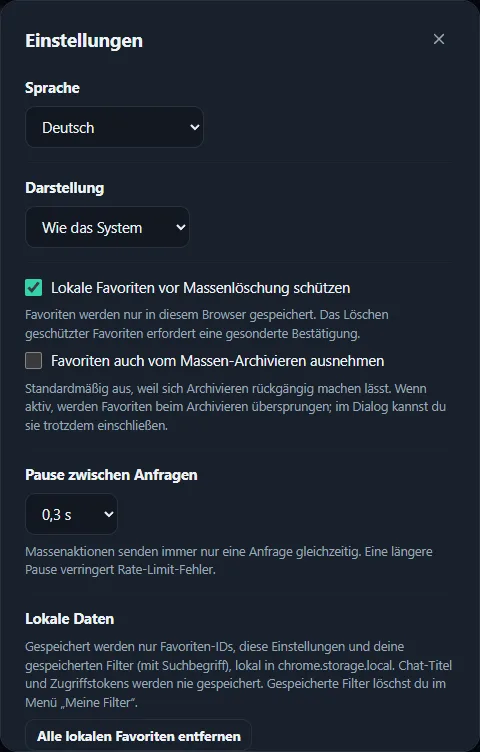
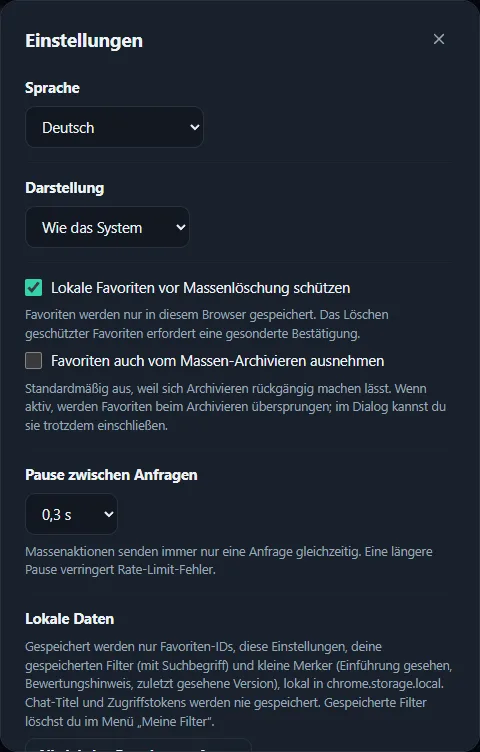
Chat Manager 2.4.0: handbook 2.4 (what's new, undo), privacy policy newsSeen

Changed region(s): [[0.0625, 0.8564, 0.9375, 1.0]]

diff --git a/chat-manager/help.html b/chat-manager/help.html
@@ -20,7 +20,7 @@
   <!-- ============================== DEUTSCH ============================== -->
   <article id="de" lang="de" class="doc-section">
     <h1>Handbuch</h1>
-    <p class="doc-meta">Chat Manager for ChatGPT · Version 2.2 · unabhängiges Projekt, kein Produkt von OpenAI</p>
+    <p class="doc-meta">Chat Manager for ChatGPT · Version 2.4 · unabhängiges Projekt, kein Produkt von OpenAI</p>
 
     <nav class="toc" aria-label="Inhalt">
       <ol>
@@ -35,6 +35,7 @@
         <li><a href="#de-errors">Meldungen und Lösungen</a></li>
         <li><a href="#de-faq">Häufige Fragen</a></li>
         <li><a href="#de-privacy">Datenschutz und Kontakt</a></li>
+        <li><a href="#de-news">Neuigkeiten</a></li>
       </ol>
     </nav>
 
@@ -110,6 +111,7 @@
       <li><strong>Nach aktueller Anfrage stoppen</strong> hält die Aktion vor dem nächsten Chat an. Bereits bearbeitete Chats bleiben bearbeitet.</li>
       <li>Bei vorübergehenden Fehlern (zu viele Anfragen, Serverfehler, Zeitüberschreitung) versucht die Erweiterung jeden Chat bis zu dreimal, mit wachsender Wartezeit. Lehnt ChatGPT danach immer noch ab (HTTP 429), <strong>stoppt die Aktion</strong>, statt weitere Chats anzufragen.</li>
       <li>Am Ende siehst du, wie viele Chats erfolgreich waren und welche fehlgeschlagen sind. <strong>Fehlgeschlagene erneut versuchen</strong> (nach einem Stopp wegen HTTP 429: <strong>Erneut versuchen</strong>) wiederholt nur die nicht erledigten Chats, erfolgreiche nie.</li>
+      <li><strong>Rückgängig machen</strong> erscheint nach Archivieren, Wiederherstellen und Verschieben im Ergebnis. Es kehrt die Aktion für genau die Chats um, bei denen sie geklappt hat – auch wenn sie in der aktuellen Ansicht nicht mehr zu sehen sind. Verschobene Chats kommen jeweils in ihr vorheriges Projekt zurück. Chats, die du inzwischen selbst geändert hast, werden übersprungen. Löschen lässt sich nicht rückgängig machen. Das Angebot gilt, bis du das Ergebnis schließt oder eine neue Aktion startest.</li>
       <li>Schließt du den Manager während einer Aktion, fragt der Browser vorher nach.</li>
       <li>Die Seitenleiste von ChatGPT zeigt Änderungen oft erst nach einem Neuladen des ChatGPT-Tabs.</li>
     </ul>
@@ -190,12 +192,40 @@
     <h2 id="de-privacy">11. Datenschutz und Kontakt</h2>
     <p>Die Erweiterung verarbeitet Chat-Titel und -Metadaten nur im Browser und nutzt das Zugriffstoken deiner ChatGPT-Sitzung nur im ChatGPT-Tab, ohne es zu speichern. Lokal gespeichert werden Favoriten, Einstellungen und gespeicherte Filter. Einzelheiten stehen in der <a href="privacy.html">Datenschutzerklärung</a>.</p>
     <p>Fragen, Fehler oder Ideen: <a href="mailto:dendev.labs@gmail.com">dendev.labs@gmail.com</a></p>
+
+    <h2 id="de-news">12. Neuigkeiten</h2>
+    <p>Was sich in den letzten Versionen für dich geändert hat. Chrome installiert Updates automatisch; nach einem größeren Update steht unten im Manager neben der Versionsnummer einmal „neu“.</p>
+    <h3 id="de-news-2-4">Version 2.4</h3>
+    <ul>
+      <li><strong>Rückgängig machen</strong> nach Archivieren, Wiederherstellen und Verschieben.</li>
+      <li>Diese Neuigkeiten: Ein Klick auf die Versionsnummer unten im Manager führt hierher.</li>
+      <li>Deutlich flüssiger bei Tausenden Chats, zum Beispiel beim Auswählen und bei „Weitere anzeigen“.</li>
+      <li>Bessere Lesbarkeit und Bedienung: stärkere Kontraste, sichtbarer Fokus auch im Windows-Kontrastmodus, Menüs passen in schmale Fenster.</li>
+    </ul>
+    <h3 id="de-news-2-3">Version 2.3</h3>
+    <ul>
+      <li>Große Chatlisten laden zuverlässiger: Der Manager hört nicht mehr zu früh auf und meldet verständlich, wenn ChatGPT beim Blättern nicht weiterkommt.</li>
+      <li>„Bewerten“ im Footer und in den Einstellungen führt zur Bewertungsseite im Store.</li>
+    </ul>
+    <h3 id="de-news-2-2">Version 2.2</h3>
+    <ul>
+      <li>Hellmodus (Einstellungen → Darstellung) und eine kurze Einführung beim ersten Start.</li>
+      <li>Dieses Handbuch, erreichbar über „?“ oben rechts.</li>
+      <li>„Meine Filter“: Suche, Zeitraum, Projekt und Sortierung unter einem Namen speichern.</li>
+      <li>Bereichsauswahl mit Umschalt+Klick und der Filter „Titel“ für unbenannte Chats.</li>
+      <li>Optionaler Archivierschutz für Favoriten und eine Diagnose für Fehlermeldungen.</li>
+    </ul>
+    <h3 id="de-news-2-1">Version 2.1</h3>
+    <ul>
+      <li>Chats in ChatGPT-Projekten werden erkannt, mit Projektnamen und Filter.</li>
+      <li>Neue Massenaktion „Verschieben“ in ein Projekt oder heraus.</li>
+    </ul>
   </article>
 
   <!-- ============================== ENGLISH ============================== -->
   <article id="en" lang="en" class="doc-section">
     <h1>Handbook</h1>
-    <p class="doc-meta">Chat Manager for ChatGPT · version 2.2 · independent project, not an OpenAI product</p>
+    <p class="doc-meta">Chat Manager for ChatGPT · version 2.4 · independent project, not an OpenAI product</p>
 
     <nav class="toc" aria-label="Contents">
       <ol>
@@ -210,6 +240,7 @@
         <li><a href="#en-errors">Messages and solutions</a></li>
         <li><a href="#en-faq">FAQ</a></li>
         <li><a href="#en-privacy">Privacy and contact</a></li>
+        <li><a href="#en-news">What’s new</a></li>
       </ol>
     </nav>
 
@@ -285,6 +316,7 @@
       <li><strong>Stop after current request</strong> halts the action before the next chat. Chats already processed stay processed.</li>
       <li>On temporary errors (too many requests, server errors, timeouts) each chat is tried up to three times with growing waits. If ChatGPT still refuses (HTTP 429), <strong>the action stops</strong> instead of requesting further chats.</li>
       <li>At the end you see how many chats succeeded and which failed. <strong>Retry failed</strong> (after a stop because of HTTP 429: <strong>Retry</strong>) only repeats chats that were not done, never successful ones.</li>
+      <li><strong>Undo</strong> appears in the result after archiving, restoring and moving. It reverses the action for exactly the chats where it succeeded – even if they are no longer shown in the current view. Moved chats each go back to their previous project. Chats you have changed yourself in the meantime are skipped. Deleting cannot be undone. Undo is available until you close the result or start a new action.</li>
       <li>If you close the manager during an action, the browser asks first.</li>
       <li>ChatGPT’s sidebar often shows changes only after reloading the ChatGPT tab.</li>
     </ul>
@@ -365,6 +397,34 @@
     <h2 id="en-privacy">11. Privacy and contact</h2>
     <p>The extension processes chat titles and metadata only in your browser and uses your ChatGPT session’s access token only in the ChatGPT tab, without storing it. Favorites, settings and saved filters are stored locally. Details are in the <a href="privacy.html">privacy policy</a>.</p>
     <p>Questions, bugs or ideas: <a href="mailto:dendev.labs@gmail.com">dendev.labs@gmail.com</a></p>
+
+    <h2 id="en-news">12. What’s new</h2>
+    <p>What changed for you in recent versions. Chrome installs updates automatically; after a larger update, the manager shows “new” next to the version number at the bottom once.</p>
+    <h3 id="en-news-2-4">Version 2.4</h3>
+    <ul>
+      <li><strong>Undo</strong> after archiving, restoring and moving.</li>
+      <li>This news page: click the version number at the bottom of the manager to get here.</li>
+      <li>Much smoother with thousands of chats, for example when selecting and with “Show more”.</li>
+      <li>Better readability and keyboard use: stronger contrast, visible focus in Windows contrast themes too, menus fit narrow windows.</li>
+    </ul>
+    <h3 id="en-news-2-3">Version 2.3</h3>
+    <ul>
+      <li>Large chat lists load more reliably: the manager no longer stops too early and tells you clearly if ChatGPT stops advancing while paging.</li>
+      <li>“Rate” in the footer and in Settings leads to the review page in the store.</li>
+    </ul>
+    <h3 id="en-news-2-2">Version 2.2</h3>
+    <ul>
+      <li>Light theme (Settings → Appearance) and a short introduction on first start.</li>
+      <li>This handbook, available via “?” at the top right.</li>
+      <li>“My filters”: save search, period, project and sort under a name.</li>
+      <li>Range selection with Shift+click and the “Title” filter for untitled chats.</li>
+      <li>Optional archive protection for favorites and diagnostics for error reports.</li>
+    </ul>
+    <h3 id="en-news-2-1">Version 2.1</h3>
+    <ul>
+      <li>Chats in ChatGPT projects are recognized, with project names and a filter.</li>
+      <li>New bulk action “Move” into or out of a project.</li>
+    </ul>
   </article>
 </main>
 </body>

diff --git a/chat-manager/privacy.html b/chat-manager/privacy.html
@@ -42,7 +42,7 @@
           <tr><td><strong>Projektliste</strong>: ID und Name deiner ChatGPT-Projekte</td><td>Projektnamen anzeigen, nach Projekt filtern, Ziel beim Verschieben wählen</td><td>Arbeitsspeicher der Manager-Seite</td><td>bis der Manager-Tab geschlossen oder neu geladen wird</td></tr>
           <tr><td><strong>Zugriffstoken der ChatGPT-Sitzung</strong></td><td>Anfragen an <code>chatgpt.com</code> im Namen deiner bestehenden Anmeldung</td><td>nur im Arbeitsspeicher des ChatGPT-Tabs</td><td>bis der ChatGPT-Tab geschlossen oder neu geladen wird</td></tr>
           <tr><td><strong>Lokale Favoriten</strong>: Chat-IDs und Zeitpunkt der Markierung</td><td>Favoritenansicht und Löschschutz</td><td><code>chrome.storage.local</code> in diesem Browser</td><td>bis du sie entfernst (einzeln oder über Einstellungen → „Alle lokalen Favoriten entfernen“) oder die Erweiterung deinstallierst</td></tr>
-          <tr><td><strong>Einstellungen</strong>: Sprache, Darstellung (hell/dunkel), Löschschutz, Archivierschutz, Merker, ob die Einführung schon angezeigt wurde, Zähler erfolgreich abgeschlossener Massenaktionen und Merker, ob der einmalige Bewertungshinweis schon angezeigt wurde, Pause zwischen Anfragen, Sortierung</td><td>Bedienung</td><td><code>chrome.storage.local</code></td><td>bis zur Deinstallation der Erweiterung</td></tr>
+          <tr><td><strong>Einstellungen</strong>: Sprache, Darstellung (hell/dunkel), Löschschutz, Archivierschutz, Merker, ob die Einführung schon angezeigt wurde, Zähler erfolgreich abgeschlossener Massenaktionen und Merker, ob der einmalige Bewertungshinweis schon angezeigt wurde, zuletzt gesehene Version (für den Hinweis „neu“ an der Versionsnummer), Pause zwischen Anfragen, Sortierung</td><td>Bedienung</td><td><code>chrome.storage.local</code></td><td>bis zur Deinstallation der Erweiterung</td></tr>
           <tr><td><strong>Gespeicherte Filter</strong>: Name, Suchbegriff, Zeitraum, Projektfilter (bei einem einzelnen Projekt dessen ID, nicht der Name), Titelfilter, Sortierung</td><td>gespeicherte Filter mit einem Klick wieder anwenden</td><td><code>chrome.storage.local</code></td><td>bis du sie im Menü „Meine Filter“ löschst oder die Erweiterung deinstallierst</td></tr>
           <tr><td><strong>Diagnose</strong> (nur auf Wunsch): Version der Erweiterung, Browser mit Hauptversion, Betriebssystem, Sprache, Verbindungsstatus, Anzahl geladener Chats und Favoriten, Einstellungen, Codes der letzten Fehler. <strong>Keine</strong> Chat-Titel, Chat-Inhalte, Chat-IDs, Projektnamen oder Zugangsdaten</td><td>Fehlersuche, wenn du sie selbst an den Herausgeber schickst</td><td>Arbeitsspeicher der Manager-Seite; in die Zwischenablage nur, wenn du auf „Kopieren“ klickst</td><td>bis der Manager-Tab geschlossen oder neu geladen wird; was du verschickst, entscheidest du</td></tr>
           <tr><td><strong>Exportdateien</strong> (JSON/CSV: ID, Titel, Änderungszeitpunkt, Archiv-Status, Favorit, Projekt (ja/nein), Link)</td><td>Sicherung durch dich</td><td>wird lokal erzeugt und nur auf deinen Klick heruntergeladen</td><td>liegt danach in deiner Verantwortung</td></tr>
@@ -99,7 +99,7 @@
           <tr><td><strong>Project list</strong>: ID and name of your ChatGPT projects</td><td>show project names, filter by project, choose the destination when moving</td><td>memory of the manager page</td><td>until the manager tab is closed or reloaded</td></tr>
           <tr><td><strong>ChatGPT session access token</strong></td><td>requests to <code>chatgpt.com</code> using your existing sign-in</td><td>memory of the ChatGPT tab only</td><td>until that tab is closed or reloaded</td></tr>
           <tr><td><strong>Local favorites</strong>: chat IDs and time marked</td><td>favorites view, delete protection</td><td><code>chrome.storage.local</code> in this browser</td><td>until you remove them (individually or via Settings → "Remove all local favorites") or uninstall</td></tr>
-          <tr><td><strong>Settings</strong>: language, appearance (light/dark), delete protection, archive protection, whether the introduction was already shown, a count of fully successful bulk actions and whether the one-time rating note was already shown, request delay, sort</td><td>operation</td><td><code>chrome.storage.local</code></td><td>until the extension is uninstalled</td></tr>
+          <tr><td><strong>Settings</strong>: language, appearance (light/dark), delete protection, archive protection, whether the introduction was already shown, a count of fully successful bulk actions and whether the one-time rating note was already shown, the last version whose news you saw (for the “new” badge next to the version number), request delay, sort</td><td>operation</td><td><code>chrome.storage.local</code></td><td>until the extension is uninstalled</td></tr>
           <tr><td><strong>Saved filters</strong>: name, search text, period, project filter (for a single project its ID, not its name), title filter, sort</td><td>re-apply a saved filter with one click</td><td><code>chrome.storage.local</code></td><td>until you delete them in the "My filters" menu or uninstall</td></tr>
           <tr><td><strong>Diagnostics</strong> (only on request): extension version, browser and major version, operating system, language, connection state, number of loaded chats and favorites, settings, codes of recent errors. <strong>No</strong> chat titles, chat contents, chat IDs, project names or credentials</td><td>troubleshooting, if you send it to the publisher yourself</td><td>memory of the manager page; copied to the clipboard only when you click "Copy"</td><td>until the manager tab is closed or reloaded; whether you send it is up to you</td></tr>
           <tr><td><strong>Export files</strong> (JSON/CSV: ID, title, updated time, archive state, favorite, project (yes/no), link)</td><td>your own backup</td><td>generated locally, downloaded only on your click</td><td>your responsibility afterwards</td></tr>

diff --git a/chat-manager/style.css b/chat-manager/style.css
@@ -10,7 +10,7 @@
   --line-soft: #1d2631;
   --text: #eef2f6;
   --muted: #9aa6b5;
-  --faint: #6f7c8c;
+  --faint: #8794a5; /* ≥ 4.5:1 on all dark surfaces (was #6f7c8c, 3.5:1 on --surface-3) */
   --accent: #34d3a8;
   --accent-2: #2bb8c9;
   --accent-ink: #052520;
@@ -61,7 +61,7 @@
   --text: #15212c;
   --muted: #52606d;
   --faint: #5f6b77;
-  --accent: #08765b;
+  --accent: #076a52; /* ≥ 4.5:1 also on --accent-soft over --surface-3 */
   --accent-2: #087282;
   --accent-ink: #ffffff;
   --accent-soft: rgba(8, 118, 91, .09);
@@ -91,7 +91,7 @@
   --star-line: rgba(176, 122, 0, .3);
   --warn-line: rgba(154, 91, 0, .28);
   --project-soft: rgba(10, 125, 142, .1);
-  --project-ink: #0a7385;
+  --project-ink: #066673;
   --date-icon: none;
 }
 * { box-sizing: border-box; }
@@ -256,7 +256,10 @@ input[type="checkbox"]:disabled { cursor: not-allowed; }
 .item { display: flex; align-items: center; gap: 4px; padding: 0 8px 0 0; border-bottom: 1px solid var(--line-soft); transition: background .12s var(--ease); animation: fade .2s var(--ease); }
 .item:last-child { border-bottom: 0; }
 .item:hover { background: var(--row-hover); }
-.item:has(.row-check:checked) { background: var(--accent-soft); }
+/* Class instead of :has(), which forces a style check of every row on each change. */
+.item.selected { background: var(--accent-soft); }
+/* Off-screen rows are not rendered until scrolled near (still findable with Ctrl+F and readable by screen readers). */
+.item { content-visibility: auto; contain-intrinsic-size: auto 64px; }
 .item-main { display: flex; align-items: center; gap: 12px; flex: 1; min-width: 0; padding: 11px 6px 11px 16px; cursor: pointer; }
 .details { min-width: 0; flex: 1; }
 .name { font-weight: 600; overflow: hidden; text-overflow: ellipsis; white-space: nowrap; }
@@ -299,6 +302,7 @@ input[type="checkbox"]:disabled { cursor: not-allowed; }
 .rate-hint { display: flex; align-items: center; gap: 10px; flex-wrap: wrap; margin-top: 10px; padding-top: 10px; border-top: 1px solid var(--line-soft); }
 .rate-hint p { flex: 1 1 240px; margin: 0; color: var(--muted); }
 .rate-ic { width: 18px; height: 18px; color: var(--accent); flex: none; }
+.news-badge { display: inline-block; margin-left: 6px; padding: 1px 7px; border-radius: 999px; background: var(--accent-soft); color: var(--accent); border: 1px solid var(--accent-line); font-size: 11px; font-weight: 600; line-height: 1.5; vertical-align: 1px; }
 .support-buttons { display: flex; gap: 8px; flex-wrap: wrap; }
 .result ul { margin: 8px 0 0; padding-left: 18px; max-height: 180px; overflow: auto; color: var(--muted); font-size: 12.5px; }
 
@@ -383,6 +387,13 @@ dialog.welcome {
 }
 
 /* Responsive */
+/* Narrow windows and high zoom: menus open across the full width of the filter bar
+   instead of hanging out of the window on the left. */
+@media (max-width: 720px) {
+  .controls-end { flex: 1 1 100%; justify-content: flex-end; flex-wrap: wrap; position: relative; }
+  .menu { position: static; }
+  .menu-panel { left: 0; right: 0; width: auto; }
+}
 @media (max-width: 860px) {
   .stats { grid-template-columns: repeat(3, minmax(0, 1fr)); }
   .controls-end { margin-left: 0; }
@@ -442,3 +453,10 @@ dialog.welcome {
 .site-head { display: flex; align-items: center; gap: 16px; margin-bottom: 8px; }
 .site-head img { border-radius: 14px; }
 .site-foot { margin-top: 40px; padding-top: 16px; border-top: 1px solid var(--line-soft); }
+
+/* Kept at the end of the file so it wins over the focus rules above.
+   Windows contrast themes drop box-shadow – keep a real outline there, or focus would be invisible. */
+@media (forced-colors: active) {
+  :focus-visible, input:focus, select:focus, #diagText:focus-visible { outline: 2px solid CanvasText; outline-offset: 2px; }
+  .item.selected { outline: 1px solid Highlight; outline-offset: -1px; }
+}
